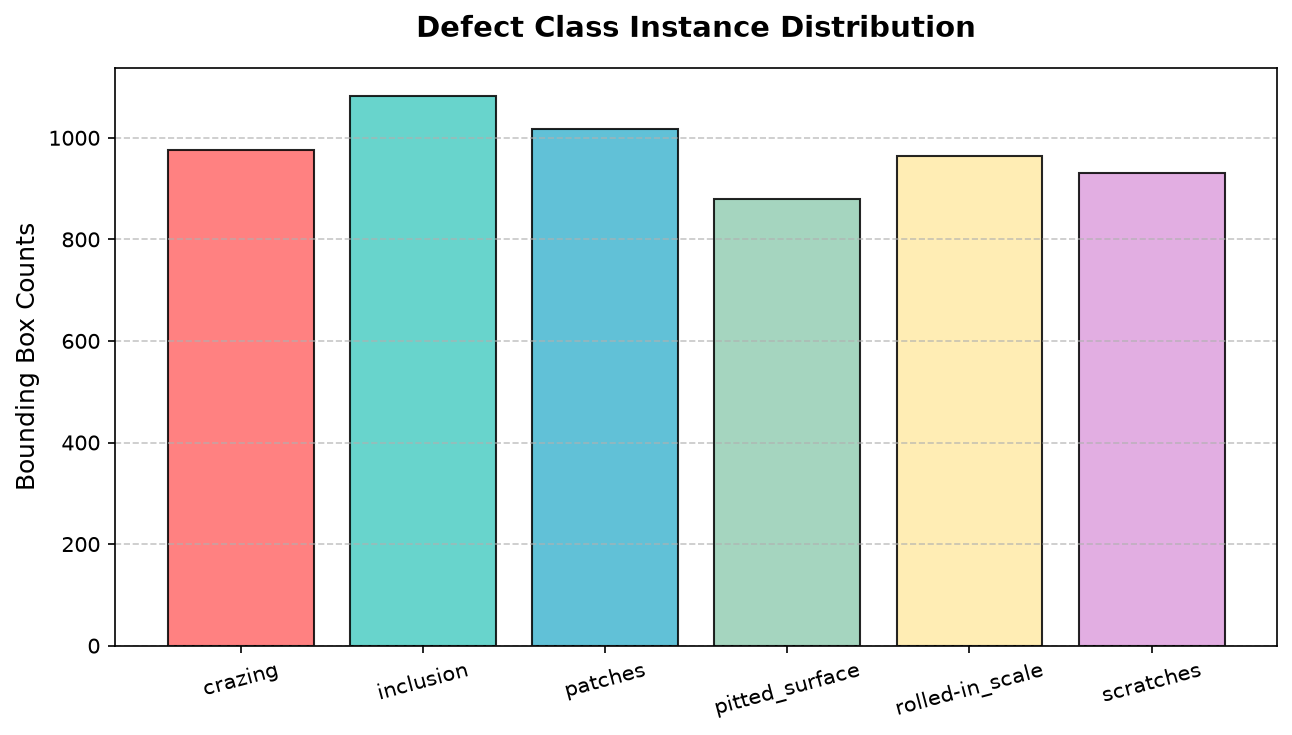
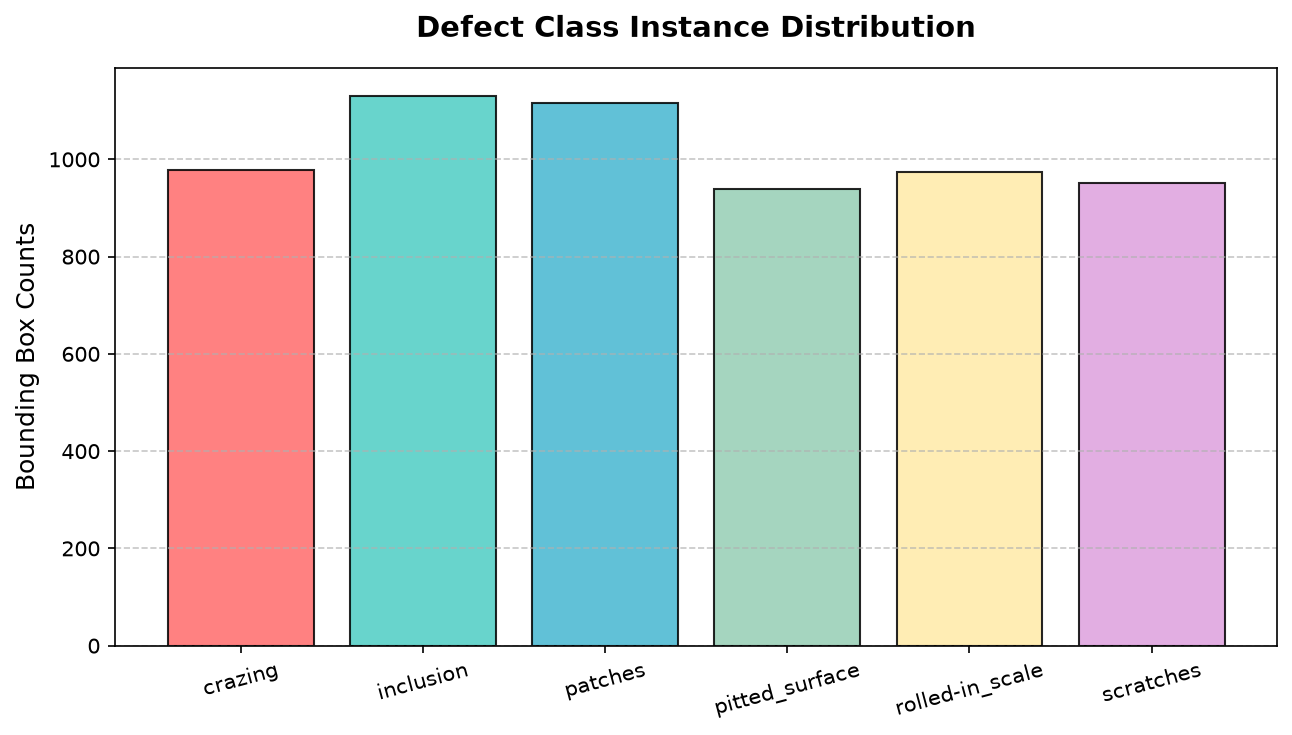
feat(data): implement dataset analytics and visualization tools

diff --git a/reports/analytics/dataset_analytics_report.md b/reports/analytics/dataset_analytics_report.md
@@ -4,23 +4,23 @@ This dashboard displays comprehensive visual and numerical analytics computed on
 
 ## 1. Overall Dataset Metrics Summary
 
-- **Total Image Count**: 2649
-- **Total Label Files**: 2649
-- **Total Bounding Box Instances**: 5852
+- **Total Image Count**: 2755
+- **Total Label Files**: 2755
+- **Total Bounding Box Instances**: 6090
 - **Mean Defect Instances per Image**: 2.21
 
 ## 2. Bounding Box Geometric Analysis
 
-- **Average Bounding Box Width**: 0.4022 (relative to image width)
-- **Average Bounding Box Height**: 0.5021 (relative to image height)
-- **Average Aspect Ratio (W/H)**: 1.18
-- **Standard Deviation (Width/Height)**: 0.2783 / 0.2882
+- **Average Bounding Box Width**: 0.4042 (relative to image width)
+- **Average Bounding Box Height**: 0.5028 (relative to image height)
+- **Average Aspect Ratio (W/H)**: 1.17
+- **Standard Deviation (Width/Height)**: 0.2793 / 0.2884
 
 ## 3. Dataset Splits Distribution
 
 | Split | Image Count | Label Count | Total Annotations | Density (Bboxes/Img) |
 | --- | --- | --- | --- | --- |
-| Train | 2109 | 2109 | 4579 | 2.17 |
+| Train | 2215 | 2215 | 4817 | 2.17 |
 | Val | 360 | 360 | 832 | 2.31 |
 | Test | 180 | 180 | 441 | 2.45 |
 
@@ -28,12 +28,12 @@ This dashboard displays comprehensive visual and numerical analytics computed on
 
 | Class ID | Class Name | Total Instances | Percentage (%) | Images Containing Class | Representation Type |
 | --- | --- | --- | --- | --- | --- |
-| 0 | crazing | 976 | 16.68% | 423 | Robust |
-| 1 | inclusion | 1083 | 18.51% | 429 | Robust |
-| 2 | patches | 1017 | 17.38% | 412 | Robust |
-| 3 | pitted_surface | 880 | 15.04% | 618 | Robust |
-| 4 | rolled-in_scale | 965 | 16.49% | 463 | Robust |
-| 5 | scratches | 931 | 15.91% | 504 | Robust |
+| 0 | crazing | 979 | 16.08% | 424 | Robust |
+| 1 | inclusion | 1131 | 18.57% | 456 | Robust |
+| 2 | patches | 1115 | 18.31% | 457 | Robust |
+| 3 | pitted_surface | 939 | 15.42% | 665 | Robust |
+| 4 | rolled-in_scale | 975 | 16.01% | 470 | Robust |
+| 5 | scratches | 951 | 15.62% | 513 | Robust |
 
 ## 5. Visualizations & Distributions
 
@@ -45,23 +45,23 @@ This dashboard displays comprehensive visual and numerical analytics computed on
 
 ## 6. Sample Ground-Truth Bounding Box Overlays
 
-### Split: TRAIN (sample_train_inclusion_247.jpg)
-![sample_train_inclusion_247.jpg](sample_train_inclusion_247.jpg)
+### Split: TRAIN (sample_train_crazing_148.jpg)
+![sample_train_crazing_148.jpg](sample_train_crazing_148.jpg)
 
-### Split: TRAIN (sample_train_inclusion_22.jpg)
-![sample_train_inclusion_22.jpg](sample_train_inclusion_22.jpg)
+### Split: TRAIN (sample_train_aug_rolled-in_scale_192_2.jpg)
+![sample_train_aug_rolled-in_scale_192_2.jpg](sample_train_aug_rolled-in_scale_192_2.jpg)
 
-### Split: VAL (sample_val_inclusion_56.jpg)
-![sample_val_inclusion_56.jpg](sample_val_inclusion_56.jpg)
+### Split: VAL (sample_val_rolled-in_scale_51.jpg)
+![sample_val_rolled-in_scale_51.jpg](sample_val_rolled-in_scale_51.jpg)
 
-### Split: VAL (sample_val_scratches_221.jpg)
-![sample_val_scratches_221.jpg](sample_val_scratches_221.jpg)
+### Split: VAL (sample_val_inclusion_129.jpg)
+![sample_val_inclusion_129.jpg](sample_val_inclusion_129.jpg)
 
-### Split: TEST (sample_test_crazing_101.jpg)
-![sample_test_crazing_101.jpg](sample_test_crazing_101.jpg)
+### Split: TEST (sample_test_scratches_143.jpg)
+![sample_test_scratches_143.jpg](sample_test_scratches_143.jpg)
 
-### Split: TEST (sample_test_patches_134.jpg)
-![sample_test_patches_134.jpg](sample_test_patches_134.jpg)
+### Split: TEST (sample_test_inclusion_127.jpg)
+![sample_test_inclusion_127.jpg](sample_test_inclusion_127.jpg)
 
 ---
 Dashboard report created automatically by `generate_dataset_dashboard.py`.
